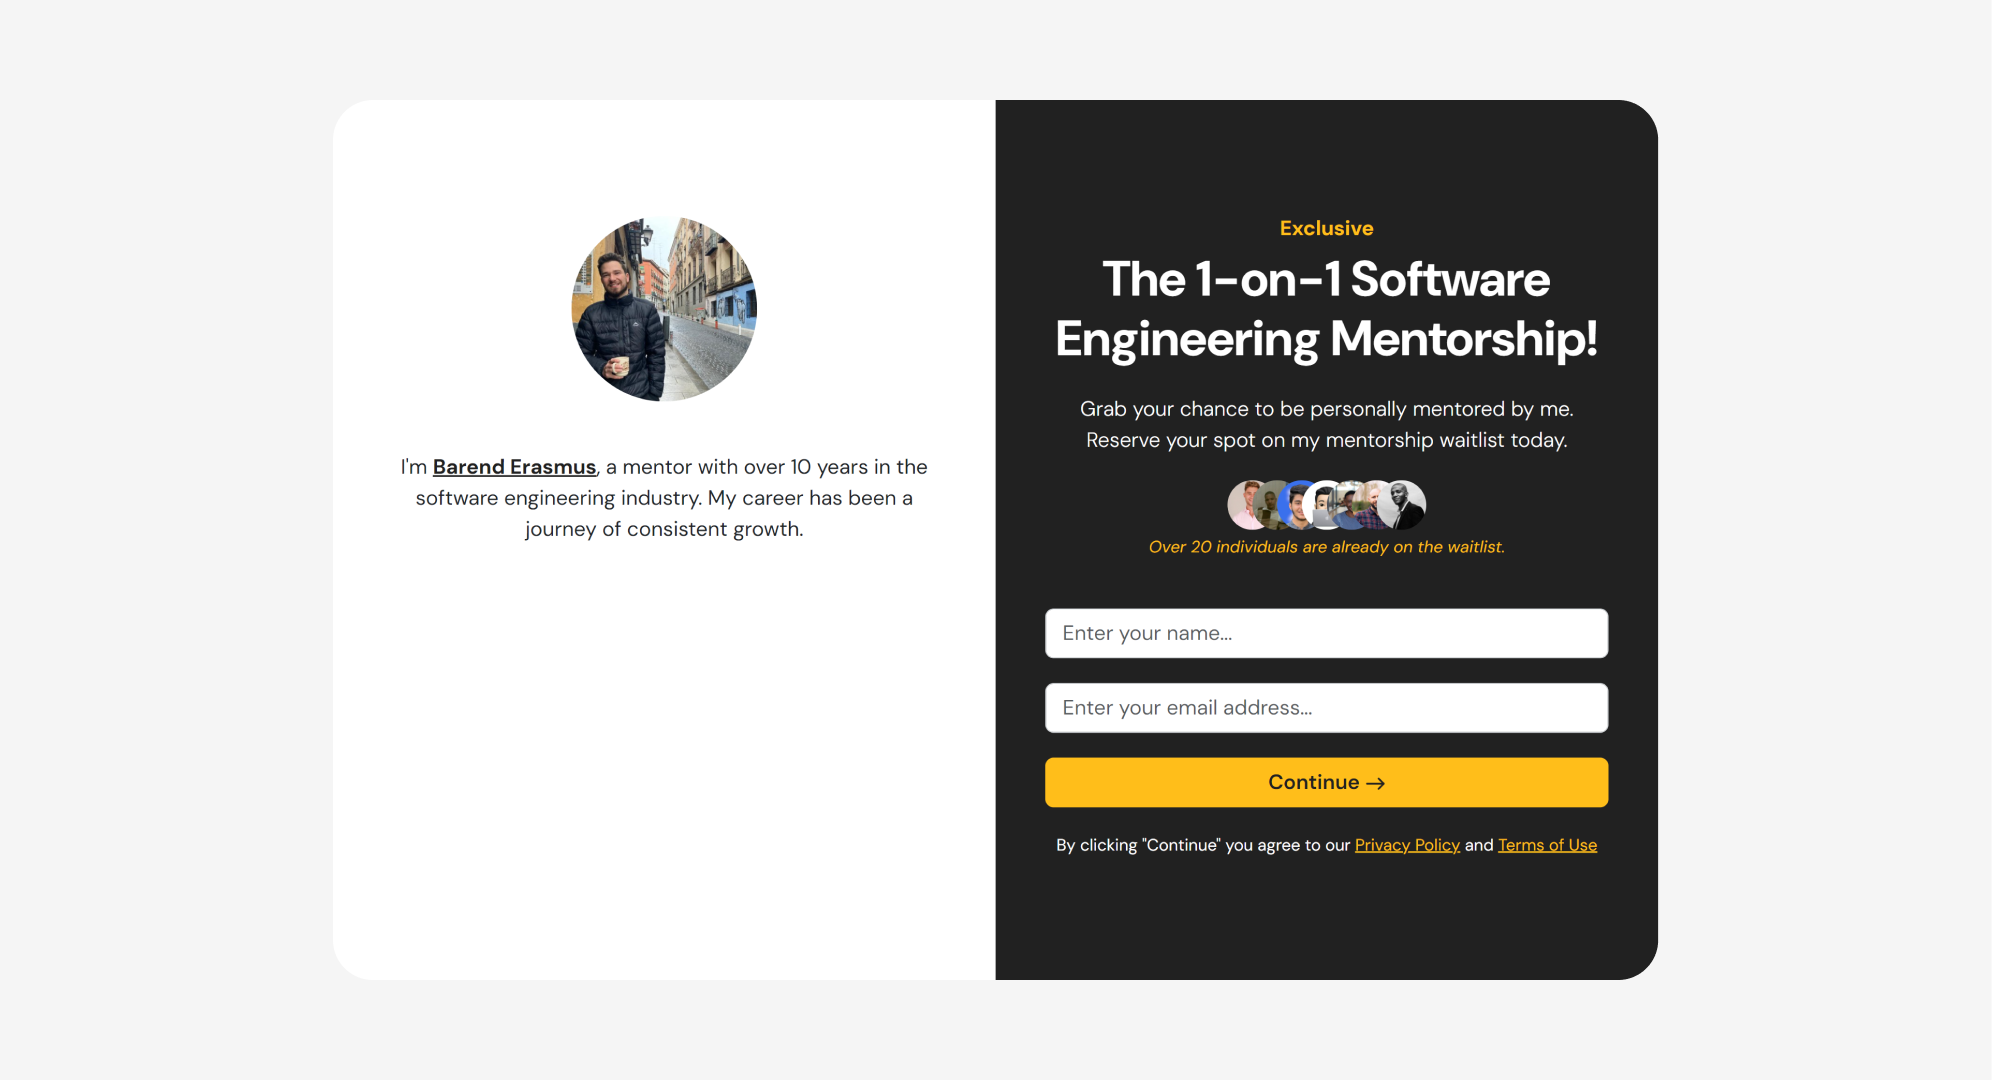
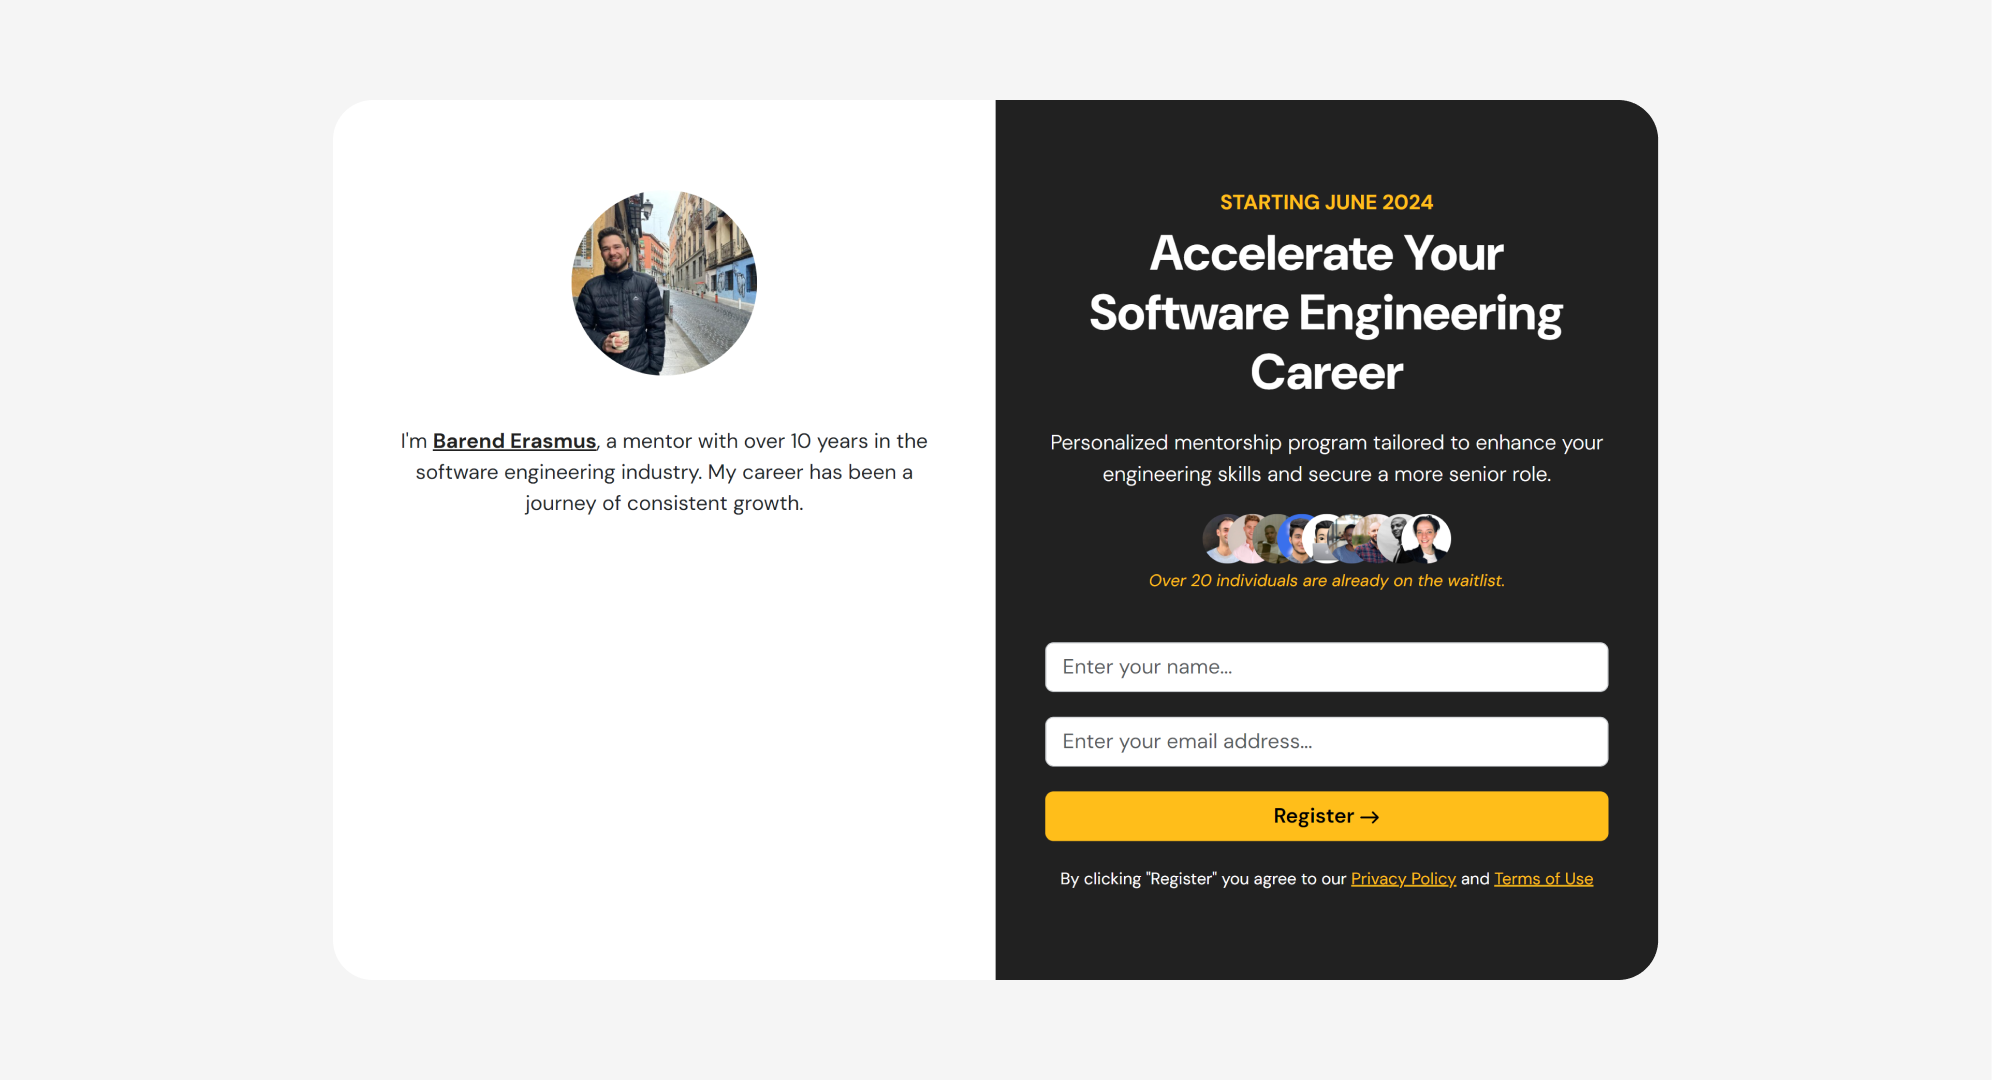
update

Changed region(s): [[0.498, 0.1833, 0.8092, 0.825], [0.1867, 0.3972, 0.4669, 0.5194], [0.2801, 0.1833, 0.4046, 0.3667]]

diff --git a/app/page.tsx b/app/page.tsx
@@ -1,8 +1,10 @@
 "use client";
 
 import axios from "axios";
+import { faker } from "@faker-js/faker";
 import moment from "moment";
 import { Template2 } from "@/templates";
+import { useEffect, useState } from "react";
 
 function scramble(str: string, shift: number): string {
   const shiftAmount = shift % 26;
@@ -26,6 +28,35 @@ function scramble(str: string, shift: number): string {
 }
 
 export default function Home() {
+  const [state, setState] = useState([
+    "https://media.licdn.com/dms/image/D4D03AQG3J9ypQM2yAA/profile-displayphoto-shrink_400_400/0/1675257908638?e=1720656000&v=beta&t=jMOzAHHMHap9DyQ6OI2u52p8Gxr74Pwg-fadpODIdL8",
+    "https://media.licdn.com/dms/image/D4D03AQFfK-zhFL2E1w/profile-displayphoto-shrink_400_400/0/1669488535518?e=1719446400&v=beta&t=z-nLmnEIpztppthXm4agrNoeLjD7nYANvVFg4WKck8A",
+    "https://media.licdn.com/dms/image/D4D03AQHCCnzCqO8Mrg/profile-displayphoto-shrink_400_400/0/1710873945873?e=1721260800&v=beta&t=2UPdDSyUt4Y9DsQbJ6eIu_QoGA59ezqwU_Tc5BCKE6E",
+    "https://media.licdn.com/dms/image/C5103AQHivmtnC3h65w/profile-displayphoto-shrink_400_400/0/1517612713175?e=1719446400&v=beta&t=tz1xTMhVxG830j0FIPM_znUzN9GMcMO75Nj5wovkq0A",
+    "https://media.licdn.com/dms/image/D4D03AQFtg8AGEYfyQA/profile-displayphoto-shrink_400_400/0/1713178817714?e=1719446400&v=beta&t=lkzvU3rDQOJB4y7jnxASNZevzI8WMr9duVU8A-OyiX8",
+    "https://media.licdn.com/dms/image/C4D03AQEn7dr7sb-Mcw/profile-displayphoto-shrink_400_400/0/1619977048027?e=1719446400&v=beta&t=0OQwD1aAqCoAbP_Ge0HjHpMxHuMfX-xyoi3lu-r0pN8",
+    "https://media.licdn.com/dms/image/D4D03AQEUjbaZdUsgGQ/profile-displayphoto-shrink_400_400/0/1688470769990?e=1719446400&v=beta&t=e71HunuR1o9EDI6G7moQK3292jqqmvApI5CDyJQ1Pxc",
+  ]);
+
+  useEffect(() => {
+    setState(
+      faker.helpers.arrayElements(
+        [
+          "https://media.licdn.com/dms/image/D4D03AQHCCnzCqO8Mrg/profile-displayphoto-shrink_400_400/0/1710873945873?e=1721260800&v=beta&t=2UPdDSyUt4Y9DsQbJ6eIu_QoGA59ezqwU_Tc5BCKE6E",
+          "https://media.licdn.com/dms/image/C4D03AQEn7dr7sb-Mcw/profile-displayphoto-shrink_400_400/0/1619977048027?e=1719446400&v=beta&t=0OQwD1aAqCoAbP_Ge0HjHpMxHuMfX-xyoi3lu-r0pN8",
+          "https://media.licdn.com/dms/image/C5103AQHivmtnC3h65w/profile-displayphoto-shrink_400_400/0/1517612713175?e=1719446400&v=beta&t=tz1xTMhVxG830j0FIPM_znUzN9GMcMO75Nj5wovkq0A",
+          "https://media.licdn.com/dms/image/D4D03AQFtg8AGEYfyQA/profile-displayphoto-shrink_400_400/0/1713178817714?e=1719446400&v=beta&t=lkzvU3rDQOJB4y7jnxASNZevzI8WMr9duVU8A-OyiX8",
+          "https://media.licdn.com/dms/image/D4D03AQFfK-zhFL2E1w/profile-displayphoto-shrink_400_400/0/1669488535518?e=1719446400&v=beta&t=z-nLmnEIpztppthXm4agrNoeLjD7nYANvVFg4WKck8A",
+          "https://media.licdn.com/dms/image/D4D03AQEUjbaZdUsgGQ/profile-displayphoto-shrink_400_400/0/1688470769990?e=1719446400&v=beta&t=e71HunuR1o9EDI6G7moQK3292jqqmvApI5CDyJQ1Pxc",
+          "https://media.licdn.com/dms/image/D4E03AQGA3K3AVHRACg/profile-displayphoto-shrink_400_400/0/1699610969845?e=1719446400&v=beta&t=WAlFNn9xt2NGTxuzFUU6nvj6YlnQ8LBL59zrbJ7Mlug",
+          "https://media.licdn.com/dms/image/C5603AQHSg60zgYsq0w/profile-displayphoto-shrink_400_400/0/1572587126292?e=1719446400&v=beta&t=a4DE6lrebzR0MrTf15B7pr4QuL-9oDoBmo9DId-OS-k",
+          "https://media.licdn.com/dms/image/D4D03AQG3J9ypQM2yAA/profile-displayphoto-shrink_400_400/0/1675257908638?e=1720656000&v=beta&t=jMOzAHHMHap9DyQ6OI2u52p8Gxr74Pwg-fadpODIdL8",
+        ],
+        7
+      )
+    );
+  }, []);
+
   return (
     <Template2
       message="Please check your inbox! You'll receive an email shortly."
@@ -69,17 +100,7 @@ export default function Home() {
       </h2>
 
       <div className="d-flex justify-content-center mb-1">
-        {[
-          "https://media.licdn.com/dms/image/D4D03AQHCCnzCqO8Mrg/profile-displayphoto-shrink_400_400/0/1710873945873?e=1721260800&v=beta&t=2UPdDSyUt4Y9DsQbJ6eIu_QoGA59ezqwU_Tc5BCKE6E",
-          "https://media.licdn.com/dms/image/C4D03AQEn7dr7sb-Mcw/profile-displayphoto-shrink_400_400/0/1619977048027?e=1719446400&v=beta&t=0OQwD1aAqCoAbP_Ge0HjHpMxHuMfX-xyoi3lu-r0pN8",
-          "https://media.licdn.com/dms/image/C5103AQHivmtnC3h65w/profile-displayphoto-shrink_400_400/0/1517612713175?e=1719446400&v=beta&t=tz1xTMhVxG830j0FIPM_znUzN9GMcMO75Nj5wovkq0A",
-          "https://media.licdn.com/dms/image/D4D03AQFtg8AGEYfyQA/profile-displayphoto-shrink_400_400/0/1713178817714?e=1719446400&v=beta&t=lkzvU3rDQOJB4y7jnxASNZevzI8WMr9duVU8A-OyiX8",
-          "https://media.licdn.com/dms/image/D4D03AQFfK-zhFL2E1w/profile-displayphoto-shrink_400_400/0/1669488535518?e=1719446400&v=beta&t=z-nLmnEIpztppthXm4agrNoeLjD7nYANvVFg4WKck8A",
-          "https://media.licdn.com/dms/image/D4D03AQEUjbaZdUsgGQ/profile-displayphoto-shrink_400_400/0/1688470769990?e=1719446400&v=beta&t=e71HunuR1o9EDI6G7moQK3292jqqmvApI5CDyJQ1Pxc",
-          "https://media.licdn.com/dms/image/D4E03AQGA3K3AVHRACg/profile-displayphoto-shrink_400_400/0/1699610969845?e=1719446400&v=beta&t=WAlFNn9xt2NGTxuzFUU6nvj6YlnQ8LBL59zrbJ7Mlug",
-          "https://media.licdn.com/dms/image/C5603AQHSg60zgYsq0w/profile-displayphoto-shrink_400_400/0/1572587126292?e=1719446400&v=beta&t=a4DE6lrebzR0MrTf15B7pr4QuL-9oDoBmo9DId-OS-k",
-          "https://media.licdn.com/dms/image/D4D03AQG3J9ypQM2yAA/profile-displayphoto-shrink_400_400/0/1675257908638?e=1720656000&v=beta&t=jMOzAHHMHap9DyQ6OI2u52p8Gxr74Pwg-fadpODIdL8",
-        ].map((x, index) => (
+        {state.map((x, index) => (
           <img
             alt={`Image ${index + 1}`}
             className="rounded-circle"

diff --git a/app/layout.tsx b/app/layout.tsx
@@ -3,7 +3,10 @@ import { Suspense } from "react";
 import "./globals.scss";
 
 export const metadata: Metadata = {
-  metadataBase: new URL(`https://untitledpages.co`),
+  alternates: {
+    canonical: "https://untitledpages.co",
+  },
+  metadataBase: new URL("https://untitledpages.co"),
   description:
     "Personalized mentorship program tailored to enhance your engineering skills and secure a more senior role.",
   // icons: "https://untitledpages.co/android-chrome-512x512.png",
@@ -12,10 +15,10 @@ export const metadata: Metadata = {
     type: "website",
     description:
       "Personalized mentorship program tailored to enhance your engineering skills and secure a more senior role.",
-    images: [`https://untitledpages.co/images/open-graph-image.png?v=2`],
+    images: [`https://untitledpages.co/images/open-graph-image.png?v=3`],
     siteName: "Untitled Pages",
     title: "Accelerate Your Software Engineering Career | Untitled Pages",
-    url: `https://untitledpages.co`,
+    url: "https://untitledpages.co",
     ttl: 1000,
   },
 };
